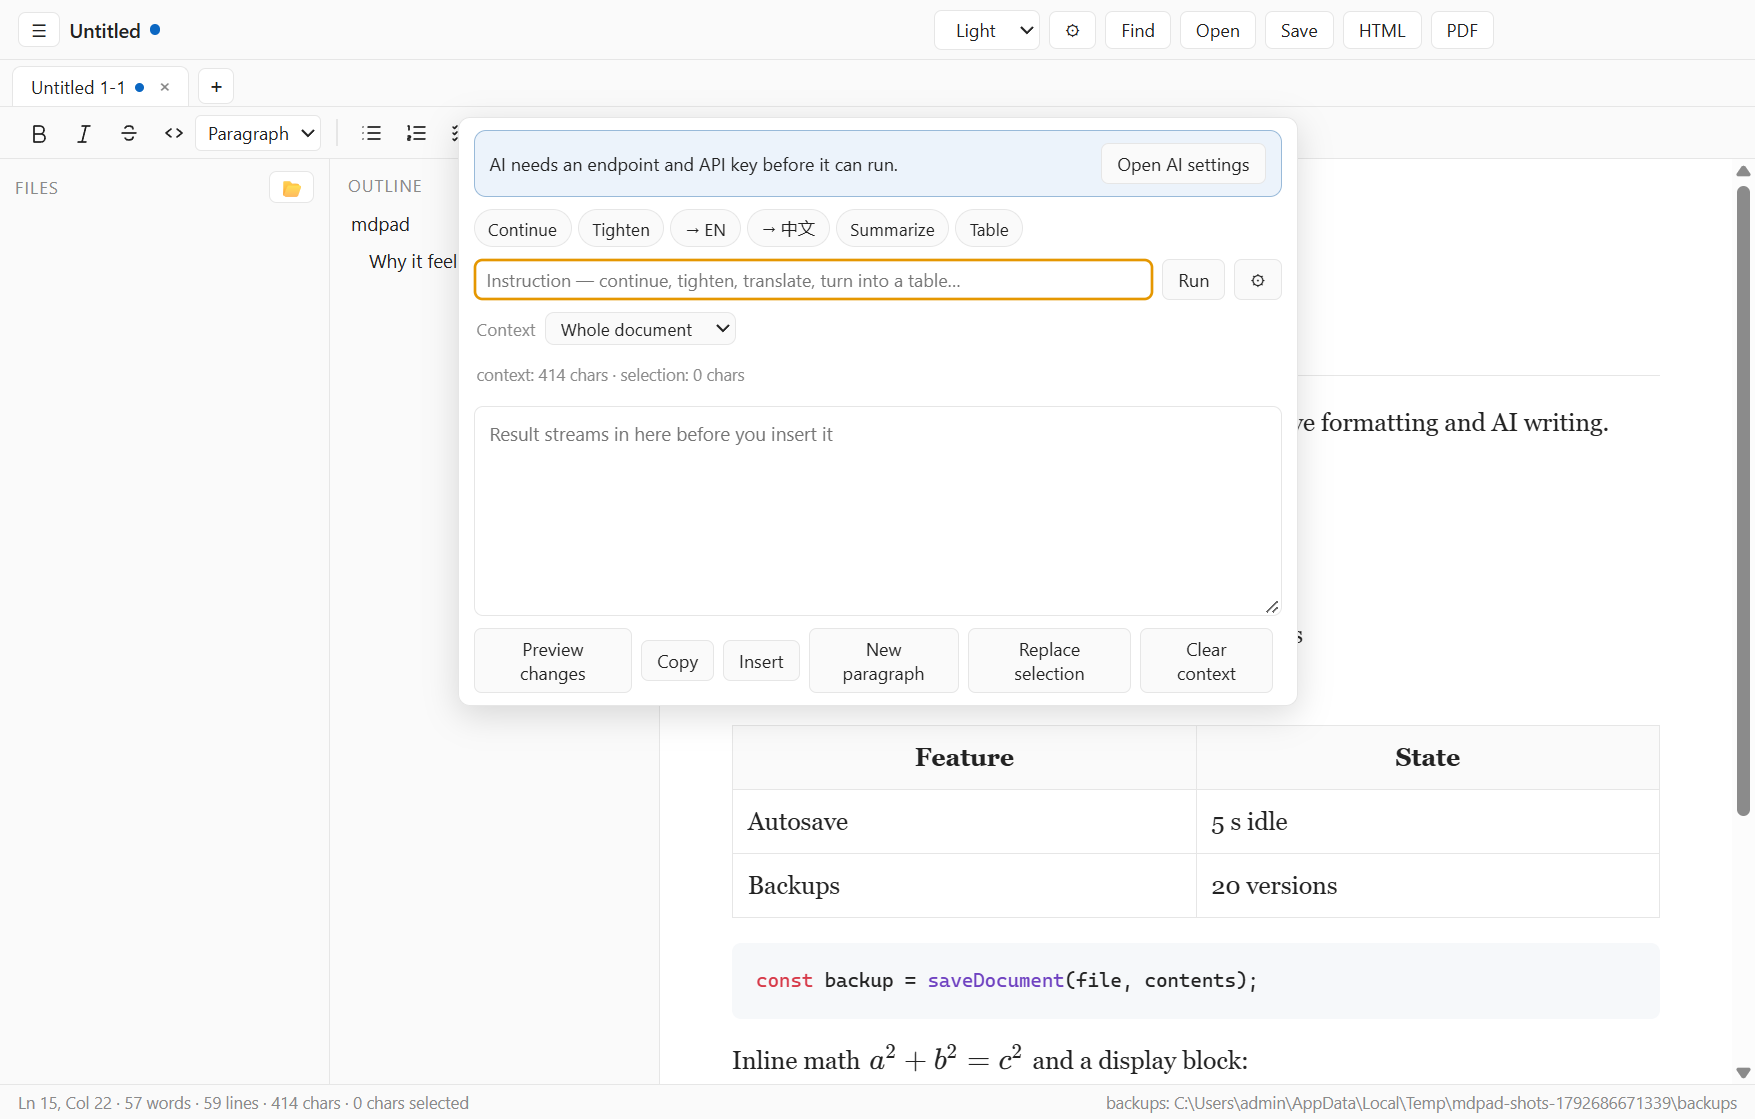
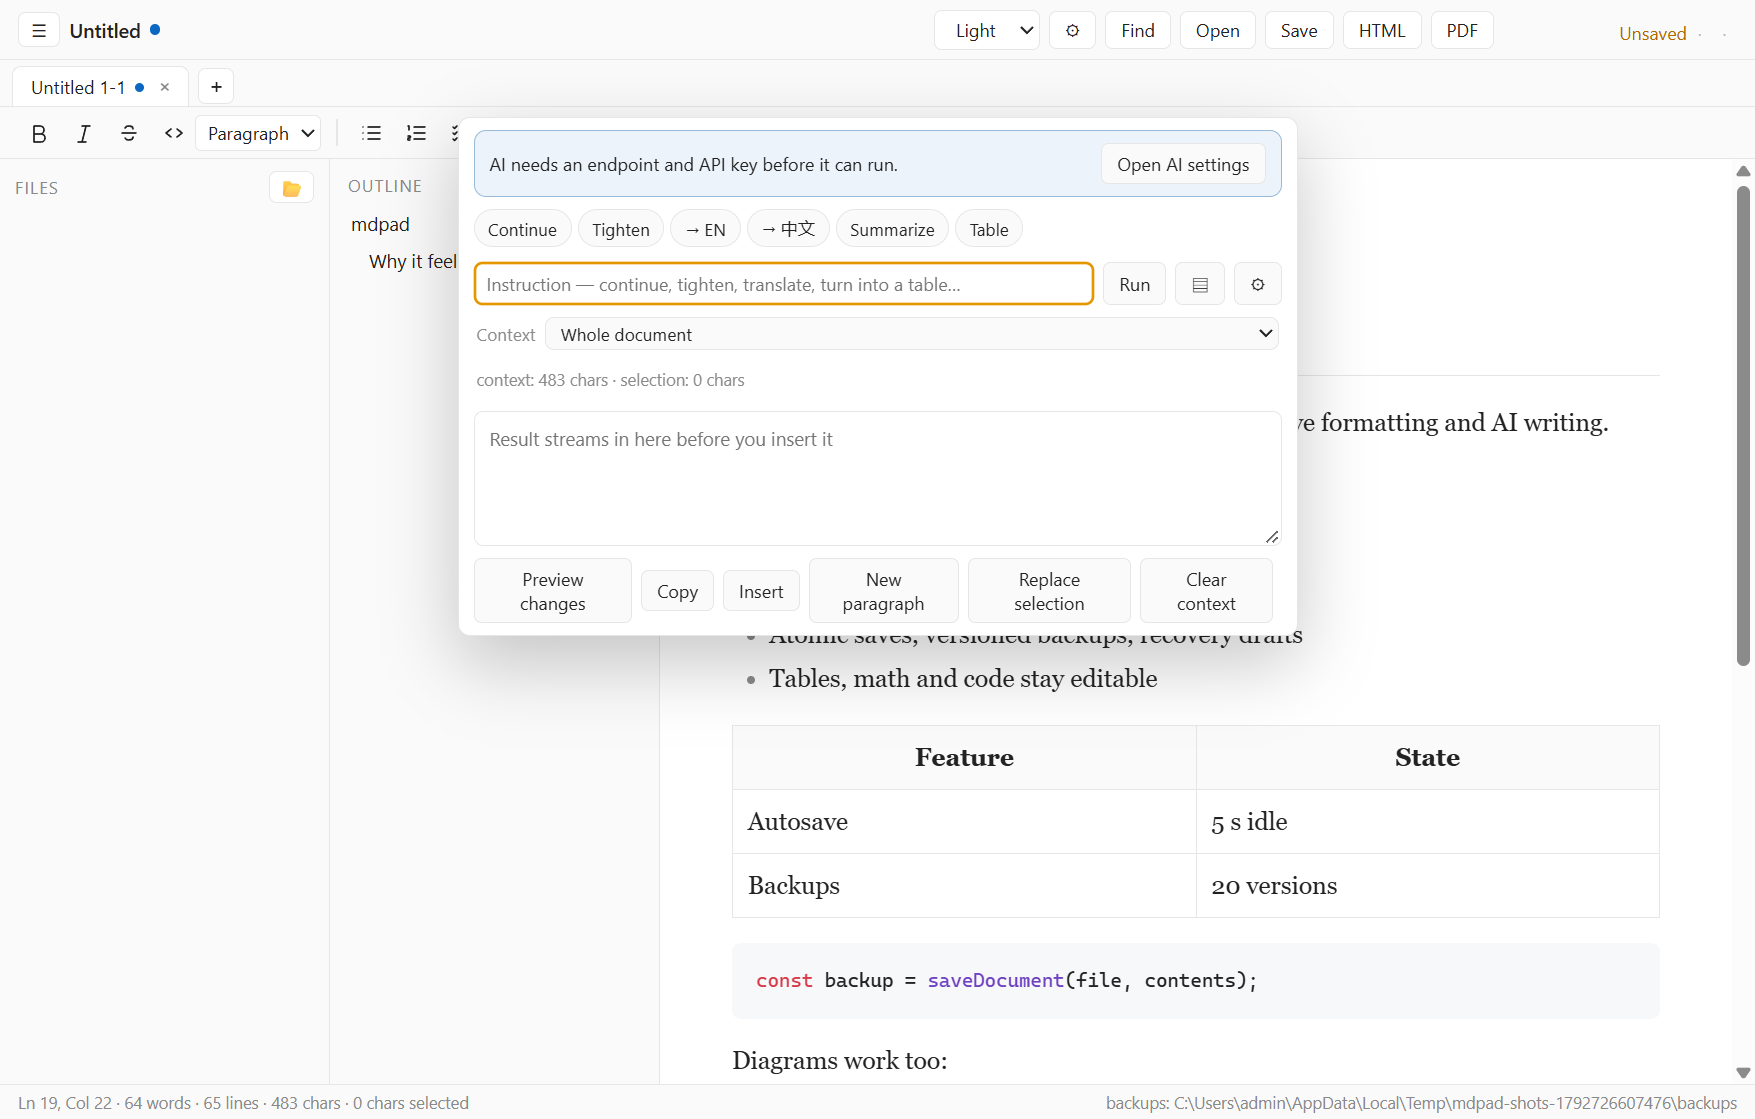
docs: show a mermaid diagram in the screenshot sample and refresh images

diff --git a/src/main.js b/src/main.js
@@ -6061,6 +6061,14 @@ const SAMPLE_DOC = [
   "const backup = saveDocument(file, contents);",
   '```',
   '',
+  'Diagrams work too:',
+  '',
+  '```mermaid',
+  'graph LR;',
+  '  write-->backup;',
+  '  backup-->restore;',
+  '```',
+  '',
   'Inline math $a^2 + b^2 = c^2$ and a display block:',
   '',
   '$$',
